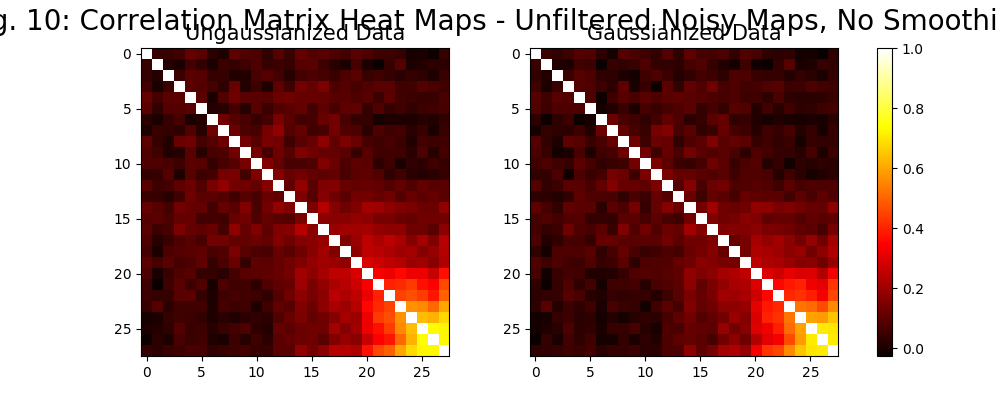
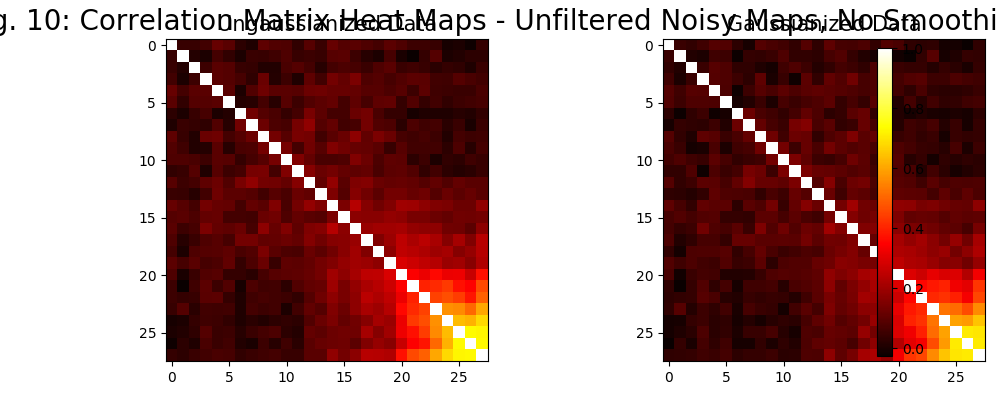
format

diff --git a/Parallel Gaussianization/Noisy Maps/gauss_SNR_nois.py b/Parallel Gaussianization/Noisy Maps/gauss_SNR_nois.py
@@ -183,6 +183,7 @@ ax2.set_title('Gaussianized Data', fontsize = "15")
 
 
 fig2.colorbar(first, ax=axlist, fraction=0.03)
+fig2.tight_layout()
 fig2.savefig("corrmat_allnoisy.png")
 
 
